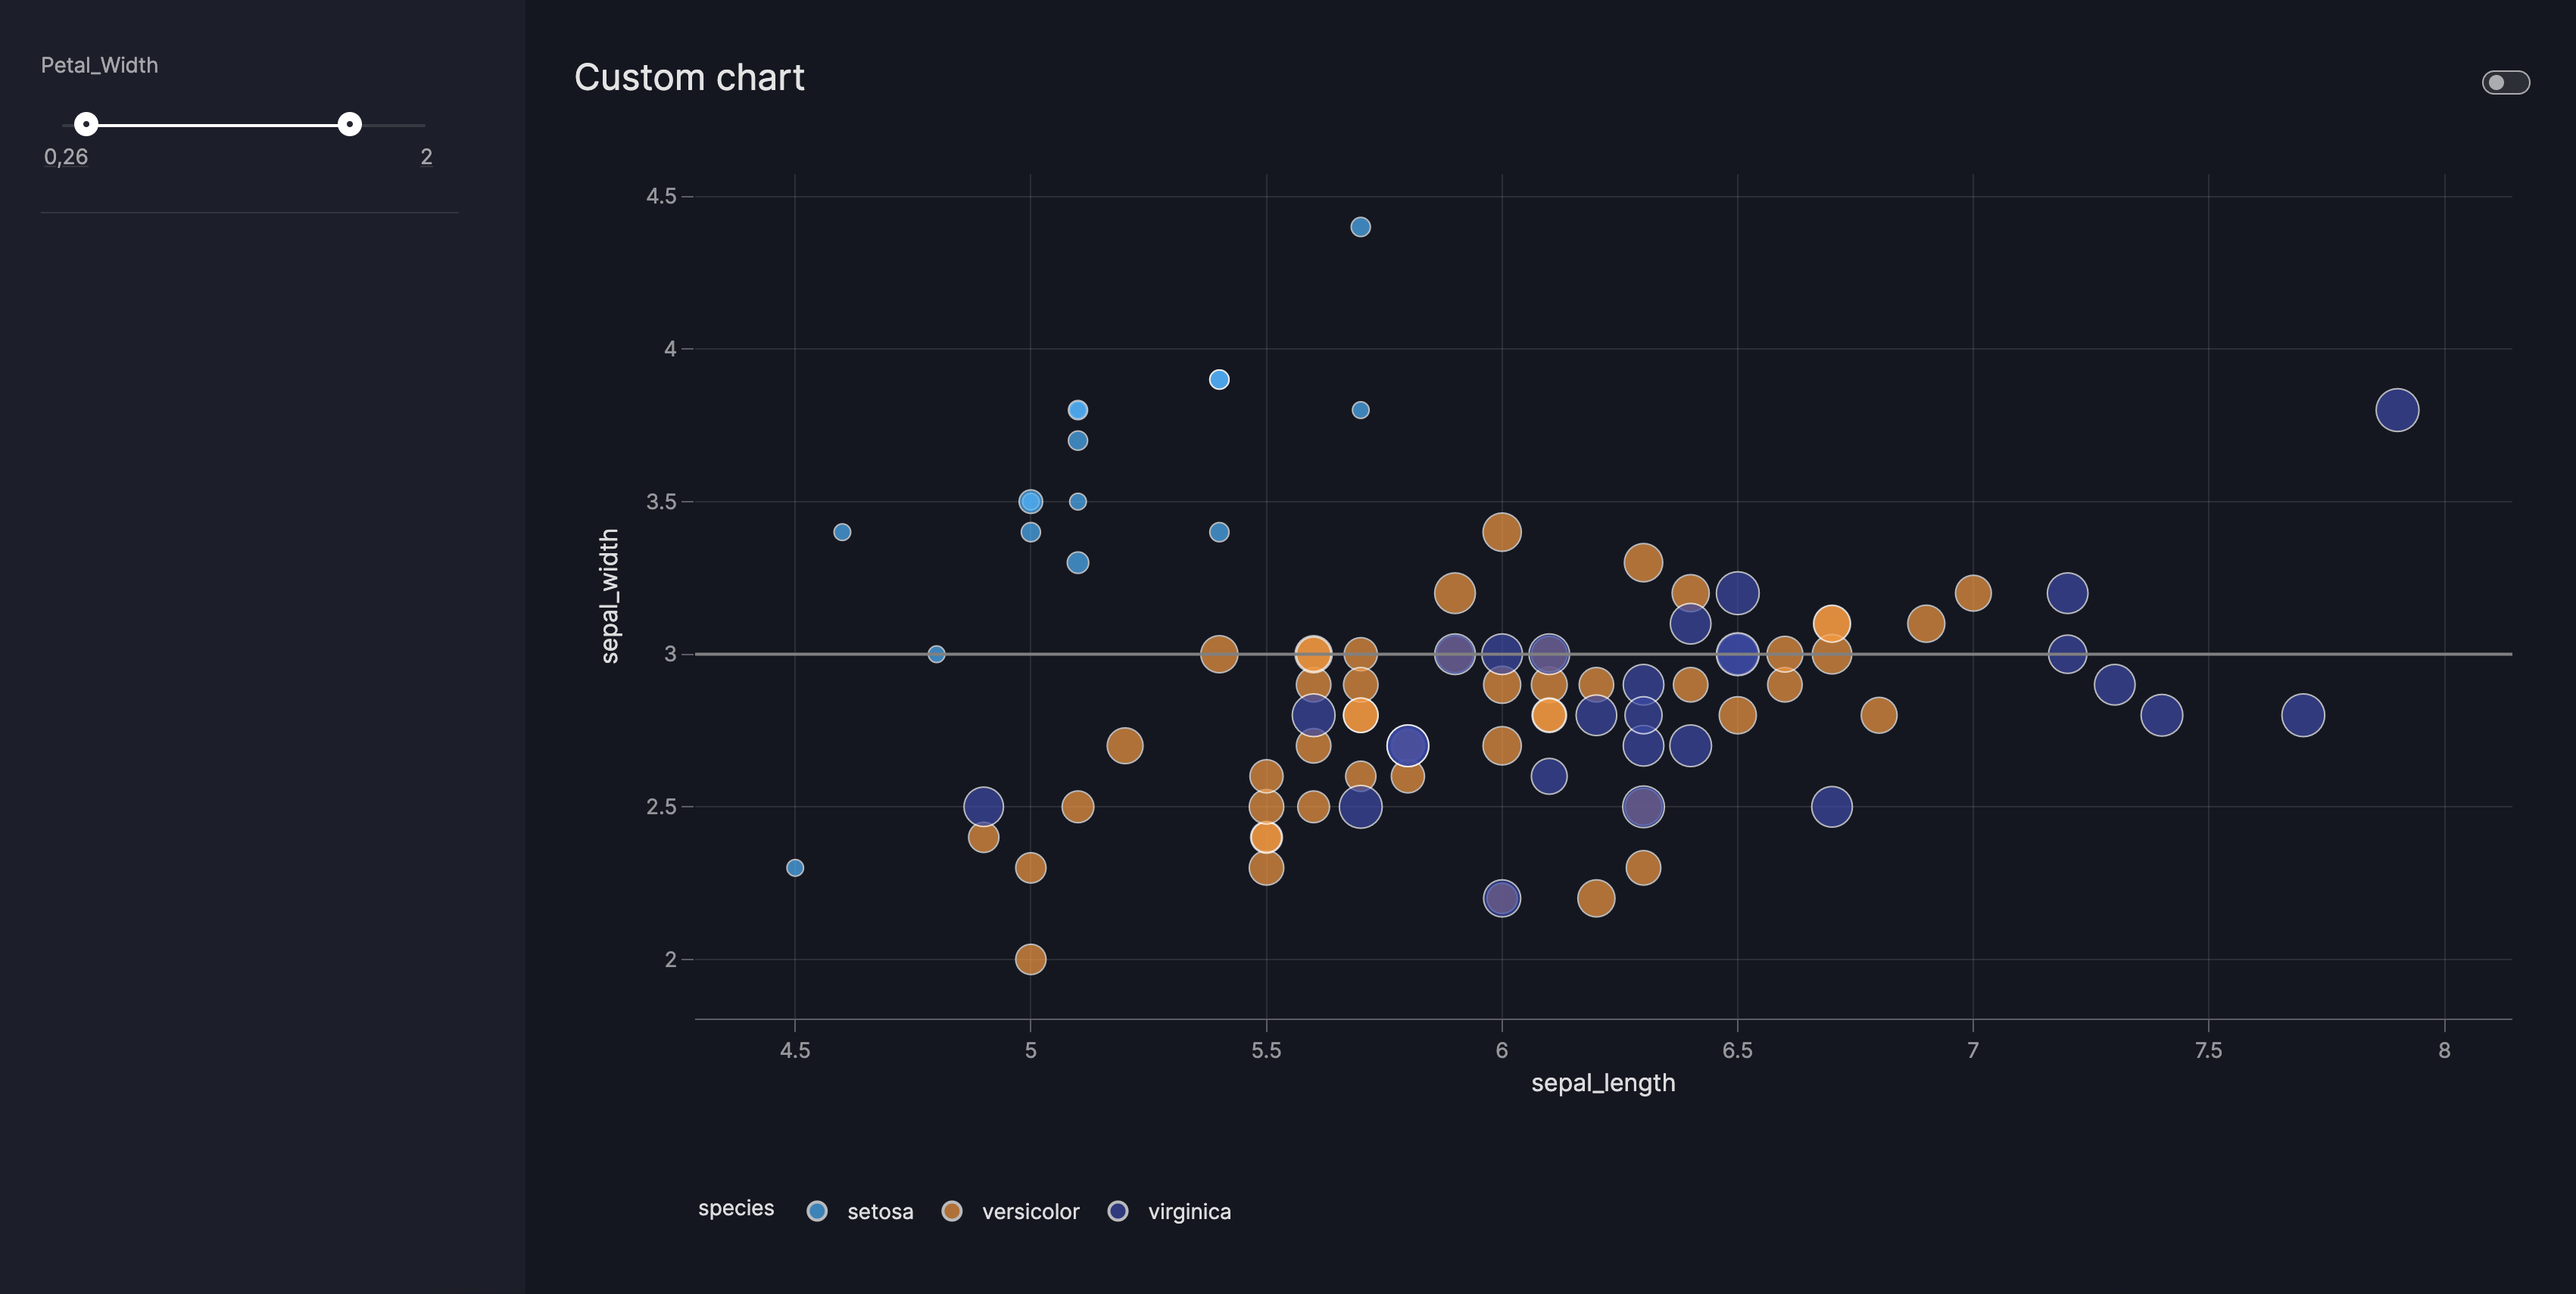
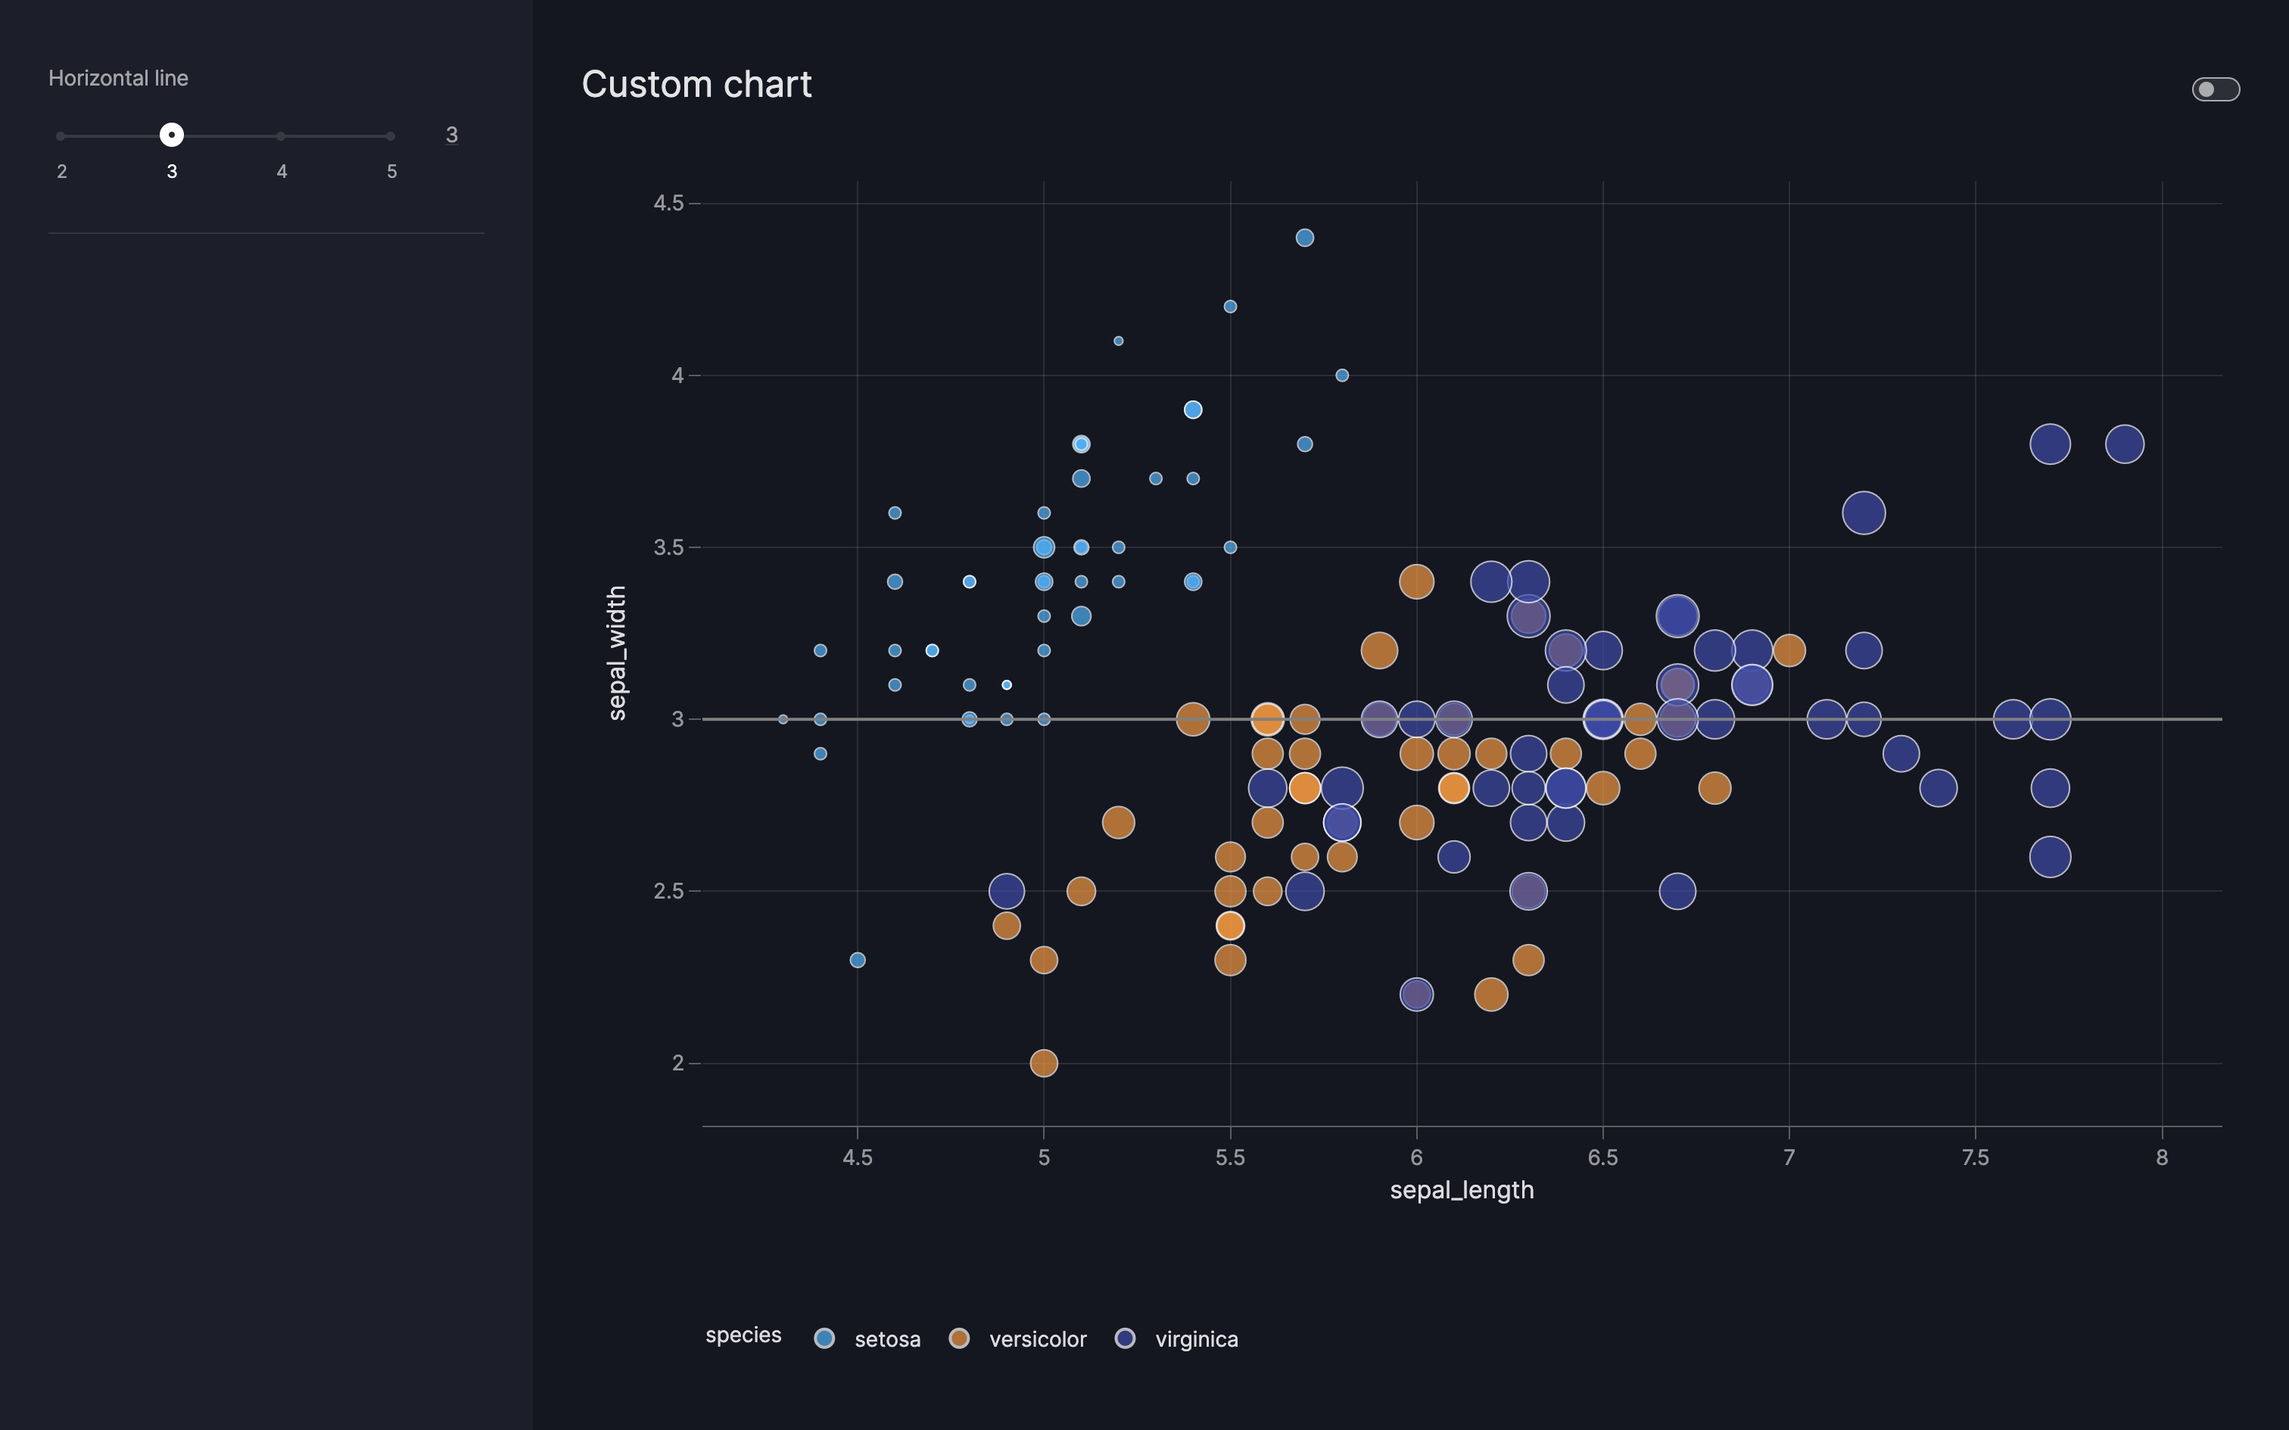
Improve docs around custom charts

diff --git a/vizro-core/docs/pages/user_guides/custom_charts.md b/vizro-core/docs/pages/user_guides/custom_charts.md
@@ -29,7 +29,11 @@ def minimal_example(data_frame:pd.DataFrame=None):
     return go.Figure()
 ```
 
-Building on the above, there are several routes one can take. The following examples are guides on the most common custom requests, but also serve as an illustration of more general principles:
+Building on the above, there are several routes one can take. The following examples are guides on the most common custom requests, but also serve as an illustration of more general principles.
+
+!!! tip
+
+    Custom charts can be targeted by [Filters](filters.md) or [Parameters](parameters.md). We will showcase both possibilities in the following examples. In particular the `Parameters` in combination with custom charts can be extremely versatile in achieving custom functionality.
 
 ## Enhanced `plotly.express` chart with reference line
 
@@ -65,13 +69,18 @@ Building on the above, there are several routes one can take. The following exam
                 ),
             ],
             controls=[
-                vm.Filter(column="petal_width"),
+                vm.Parameter( # (1)!
+                    targets=["enhanced_scatter.hline"],
+                    selector=vm.Slider(min=2, max=5, step=1, value=3, title="Horizontal line"),
+                ),
             ],
         )
         dashboard = vm.Dashboard(pages=[page_0])
 
         Vizro().build(dashboard).run()
         ```
+
+        1.  Note how we are able to target *any custom argument* of our custom chart. Since there is complete flexibility in terms of what can be derived from such custom arguments this allows for a wide range of customization options by the dashboard user.
     === "app.yaml"
         ```yaml
         # Custom charts are currently only possible via python configuration
@@ -136,13 +145,15 @@ The below examples shows a more involved use-case. We create and style a waterfa
                 ),
             ],
             controls=[
-                vm.Filter(column="x", selector=vm.Dropdown(title="Financial categories", multi=True)),
+                vm.Filter(column="x", selector=vm.Dropdown(title="Financial categories", multi=True)),# (1)!
             ],
         )
         dashboard = vm.Dashboard(pages=[page_0])
 
         Vizro().build(dashboard).run()
         ```
+
+        1.  Note how we are able to apply a filter even to a custom chart
     === "app.yaml"
         ```yaml
         # Custom charts are currently only possible via python configuration
